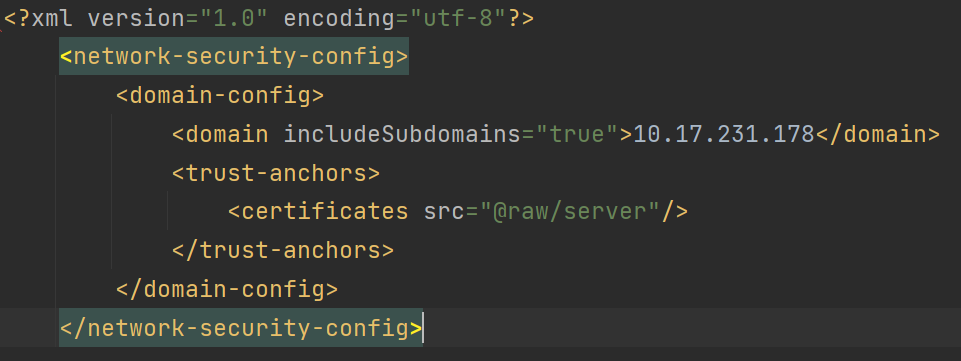
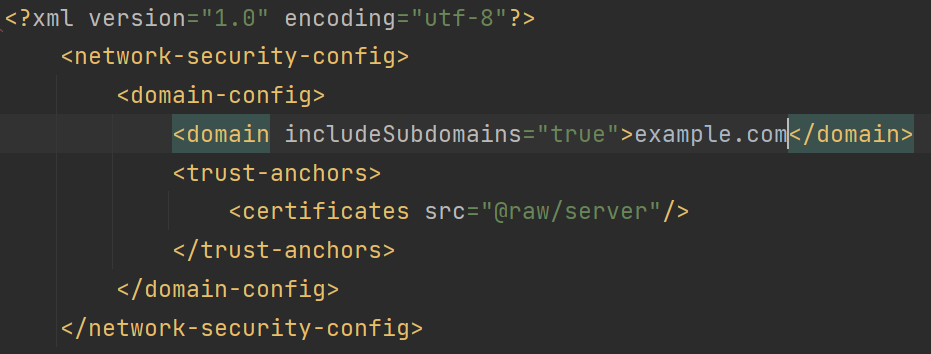
Correction to security guide page for Fixed reader page

diff --git a/dcs/rfid/android/2-0-2-94/guide/security-guide-for-FX-reader/index.html b/dcs/rfid/android/2-0-2-94/guide/security-guide-for-FX-reader/index.html
@@ -202,7 +202,7 @@
                                                <h4 id="code2" class="anchor"><a class="heading-anchor" href="#code2"><span></span></a>Connecting to a reader with Self-signed Certificate</h4>
                                                 <p>In order to connect to reader with Self-signed certificate, set validateCertificates flag to false (This is default) in LoginInfo class.</p>
 <pre class="prettyprint"><code>
-LoginInfo loginInfo= new LoginInfo("10.17.231.178", "username", "Password", SECURE_MODE.HTTPS, false, false);
+LoginInfo loginInfo= new LoginInfo("FX9600112233", "username", "Password", SECURE_MODE.HTTPS, false, false);
 </code></pre>  
                                                 <p>Then the sdk will accept any certificate presented by the reader at the time of login. This method is partially secure as certificate validation is not enforced. </p>
                                                 
@@ -212,16 +212,16 @@ LoginInfo loginInfo= new LoginInfo("10.17.231.178", "username", "Password", SECU
                                                  
                                                 <p>In sdk make sure to set validateCertificates flag to true in LoginInfo class.</p>
 <pre class="prettyprint"><code>
-LoginInfo loginInfo= new LoginInfo("10.17.231.178", "username", "Password", SECURE_MODE.HTTPS, false, true);
+LoginInfo loginInfo= new LoginInfo("FX9600112233", "username", "Password", SECURE_MODE.HTTPS, false, true);
 </code></pre>                                   
-                                                <p>Add CA-signed certificate to <code>res/raw/server</code></p>
+                                                <p>Add CA certificate to <code>res/raw/server</code></p>
                                                 <p>Create a network_security_config.xml file in  <code>res/xml/network_security_config.xml</code> and add the following code</p>
                                                 <p><img src="../../images/security-guide-for-FX/network_security_config.PNG" width = "600" height ="250"></p>
                                                 
                                                 <p>In the AndroidManifest.xml file ad the following code:</p>
                                                 <p><img src="../../images/security-guide-for-FX/manifest.PNG" width="600" height="75"></p>
 
-                                                
+                                                <p>In the above code example.com must be replace with the domain name that the CA certificate is issued to</p>
                                                <p> <strong>Note :</strong>Certificate should be CA certificate used to generate the reader certificate and domain name should be the name given when generating certificate.</p>
                                             
                                                         <!-- 4/24/18- dead link removed. No corresponding folder or sample found. -EC
